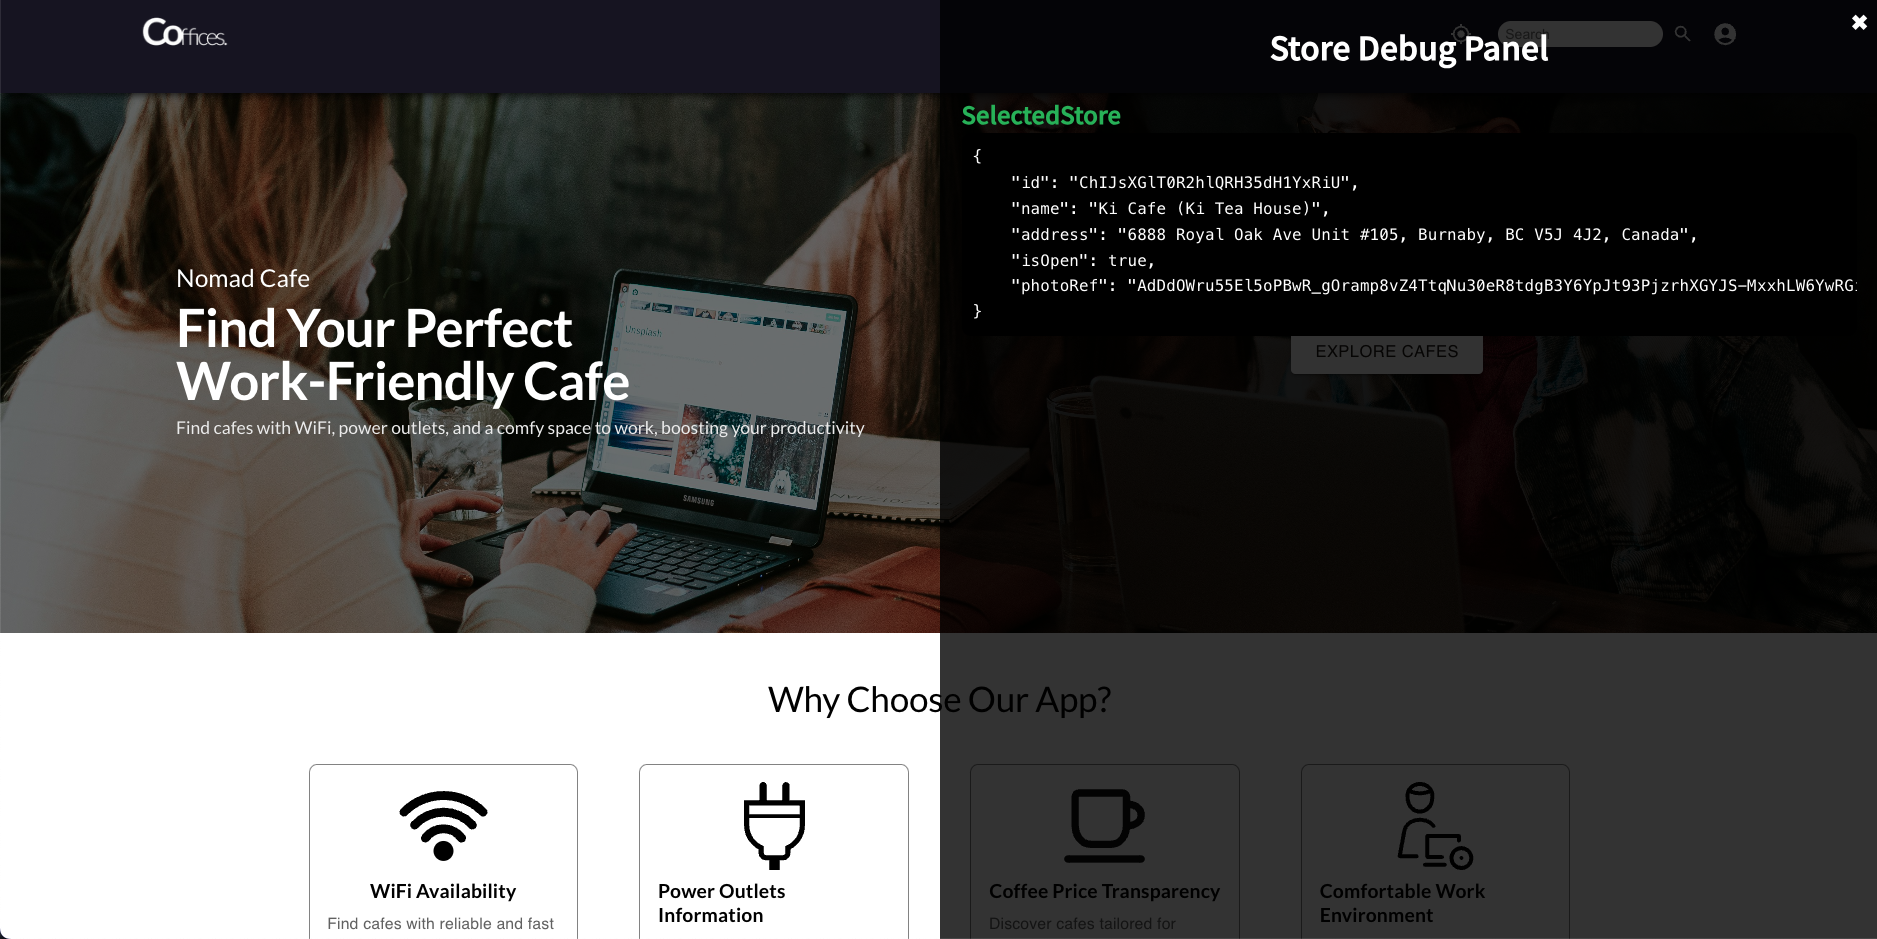
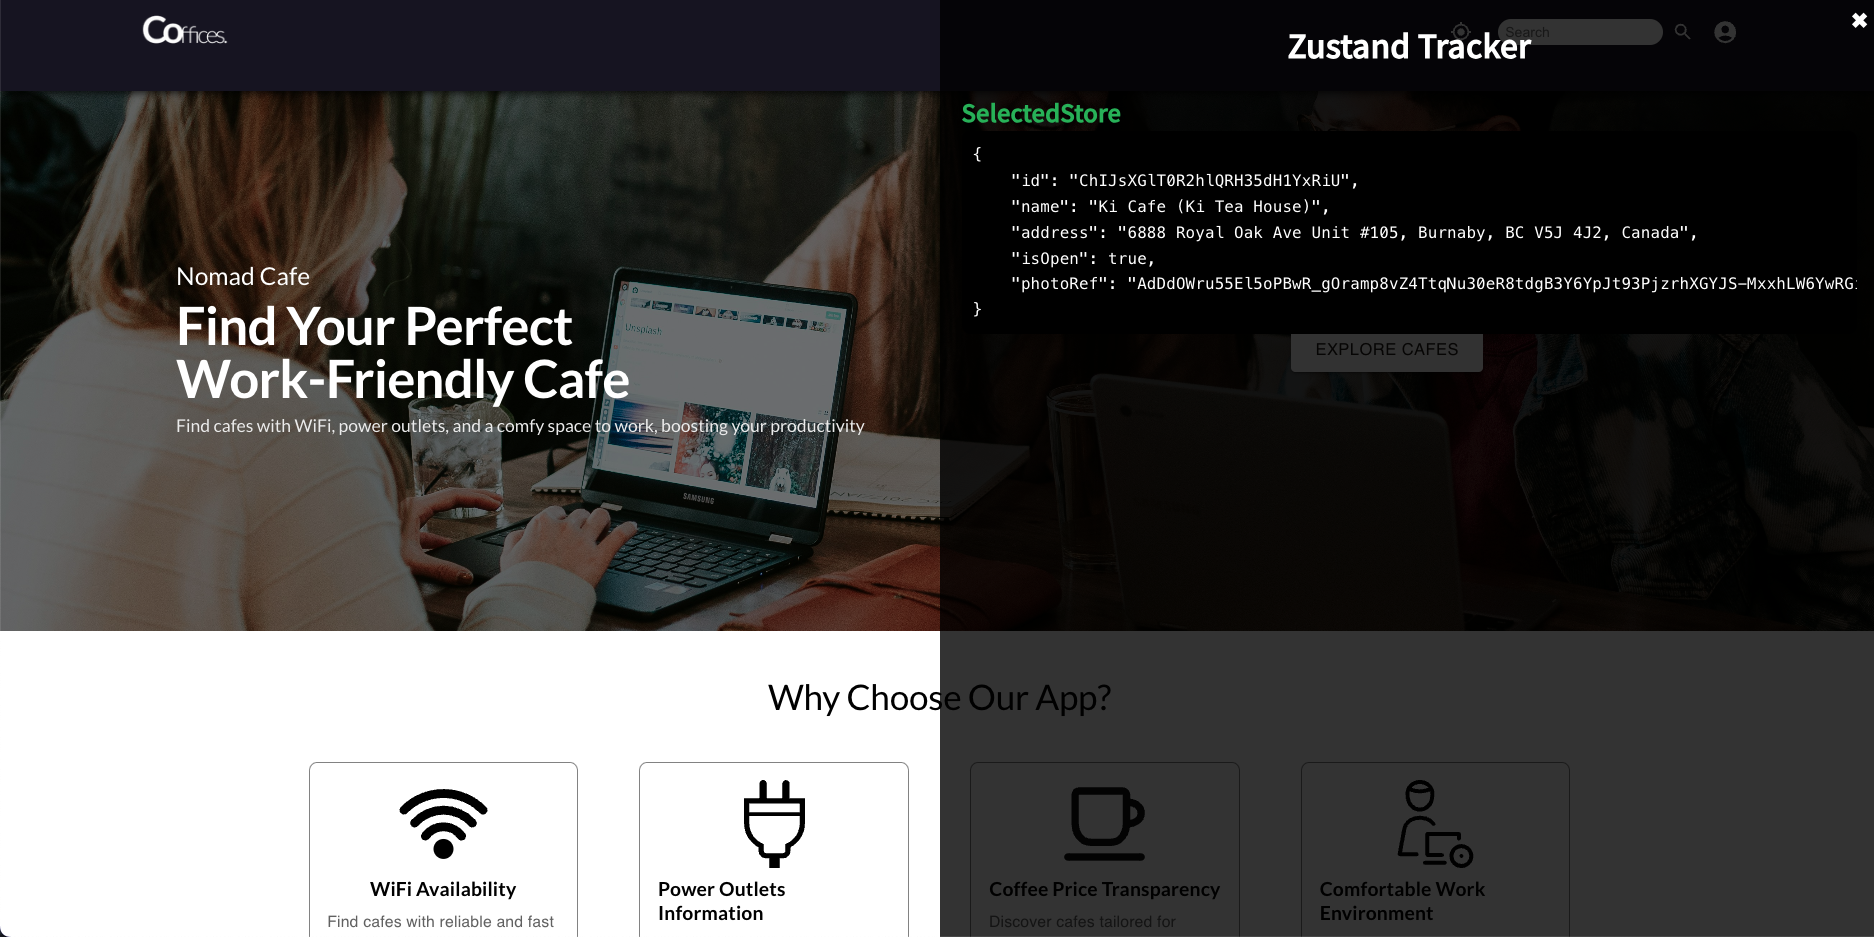
1.0.9: update title

diff --git a/src/ZustandTracker.tsx b/src/ZustandTracker.tsx
@@ -87,7 +87,7 @@ const ZustandTracker = ({
 
           {/* Header of the debug panel */}
           <h1 style={{ textAlign: "center", marginBottom: "20px" }}>
-            Store Debug Panel
+            Zustand Tracker
           </h1>
 
           {/* Render each store passed as props */}
